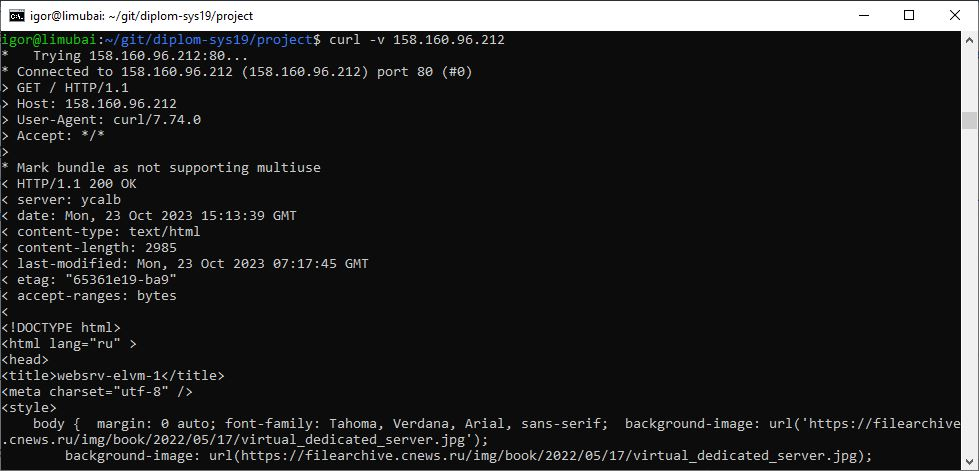
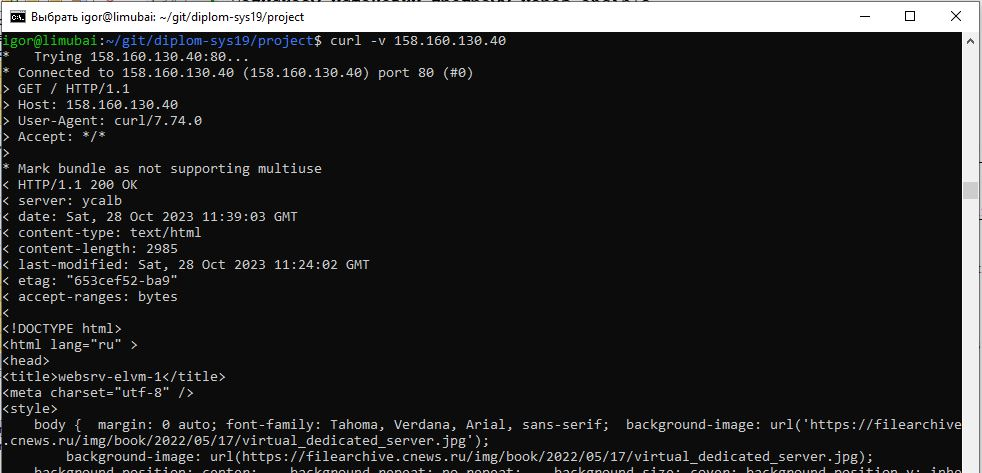
Text redaction

Changed region(s): [[0.0, 0.0, 1.0, 1.0]]

diff --git a/README.md b/README.md
@@ -274,17 +274,17 @@ terraform apply -auto-approve
 ```sql
 Outputs:
 
-bastion-elvm = "51.250.80.150"
-kibana-elvm = "84.201.159.19"
-load_balancer = "158.160.130.19"
-zabbix-elvm = "84.201.130.19"
+bastion-elvm = "51.250.79.53"
+kibana-elvm = "158.160.117.170"
+load_balancer = "158.160.130.40"
+zabbix-elvm = "158.160.123.194"
 ```
 
 
 
 Ansible использует файл **inventory**, в котором определена опция "SSH ProxyCommand", позволяя подключаться к вирутальным машинам чере бастион-серевер.
 
-структура выглядит так:
+пример структуры, шаблон выглядит так:
 
 ```sql
 websrv-elvm:
@@ -351,6 +351,12 @@ ansible-playbook -i ansible/inventory ansible/install.yml
 ```
 
 
+
+![installing.JPG](https://github.com/elekpow/diplom-sys19/blob/main/images/installing.JPG)
+
+
+
+
 Так как программы - Elasticsearch, Kibana, Filebeat не удается установить из за ограничений доступа , использую собственный сервер: **"http://repo.limubai.ru"**. 
 
 Для доступа к серверам использую  подключение по ssh через бастион-серевер, для этого изпользуется флаг `-J` (jump хост). Группа безопасности **bastion-sg** для бастион-серевера определена в файле **network.tf**, он имеет открытый 22 порт. Во внутренней сети можно использовать имя сервера либо FQDN.
@@ -358,17 +364,21 @@ ansible-playbook -i ansible/inventory ansible/install.yml
 Пример подключения к серверу:
 
 ```sql
-ssh -i ~/.ssh/id_ed25519 -J bastion@51.250.80.150 igor@websrv-elvm-1
+ssh -i ~/.ssh/id_ed25519 -J bastion@51.250.79.53 igor@websrv-elvm-1
 ```
 
 
 После того как завершиться процесс установки подключаемся проверим работоспособность веб-серверов
 
-`curl -v 158.160.130.19` проверяем ответ от веб серверов, через **load balancer**
+`curl -v 158.160.130.40` проверяем ответ от веб серверов, через **load balancer**
 
-![curl_load_balancer.JPG](https://github.com/elekpow/diplom-sys19/blob/main/images/curl_load_balancer.JPG)
 
-![curl_load_balancer2.JPG](https://github.com/elekpow/diplom-sys19/blob/main/images/curl_load_balancer2.JPG)
+<title>websrv-elvm-1</title>
+![installing_complete.JPG](https://github.com/elekpow/diplom-sys19/blob/main/images/installing_complete.JPG)
+
+<title>websrv-elvm-2</title>
+![installing_complete2.JPG](https://github.com/elekpow/diplom-sys19/blob/main/images/installing_complete2.JPG)
+
 
 также можно открыть веб браузер и посмотреть тестовую веб-страницу. [Webservers](http://158.160.130.19 "Webservers")
 
@@ -474,9 +484,6 @@ Ansible устанавливает на веб сервера zabbix-agent, да
 ```
 
 
-
-
-
 ![zabbix-dashboard.JPG](https://github.com/elekpow/diplom-sys19/blob/main/images/zabbix-dashboard.JPG)
 
 
@@ -487,9 +494,9 @@ Ansible устанавливает на веб сервера zabbix-agent, да
 ## Доступ к ресурсам
 
 
-- Веб сайт, доcтупен через балансировщик: [load-balancer](http://84.201.159.19 "load-balancer")
+- Веб сайт, доcтупен через балансировщик: [load-balancer](http://158.160.130.40 "load-balancer")
 
-- Логи выводялся на сервер Kibana: [Kibana](http://84.201.159.19 "Kibana")
+- Логи выводялся на сервер Kibana: [Kibana](http://158.160.117.170/app/discover "Kibana")
 
 
 <details>
@@ -517,7 +524,7 @@ deb пакеты для установки:
 ![repo.JPG](https://github.com/elekpow/diplom-sys19/blob/main/images/repo.JPG)
 
 
-- Мониторинг: [Zabbix](http://84.201.159.19 "Zabbix")
+- Мониторинг: [Zabbix](http://158.160.123.194 "Zabbix")
 
 <details>
   <summary>Авторизация на Zabbix-сервере:  </summary>
@@ -527,9 +534,4 @@ deb пакеты для установки:
 Пароль: `zabbix`
 
 </details>
-
-
-
-
-
 
